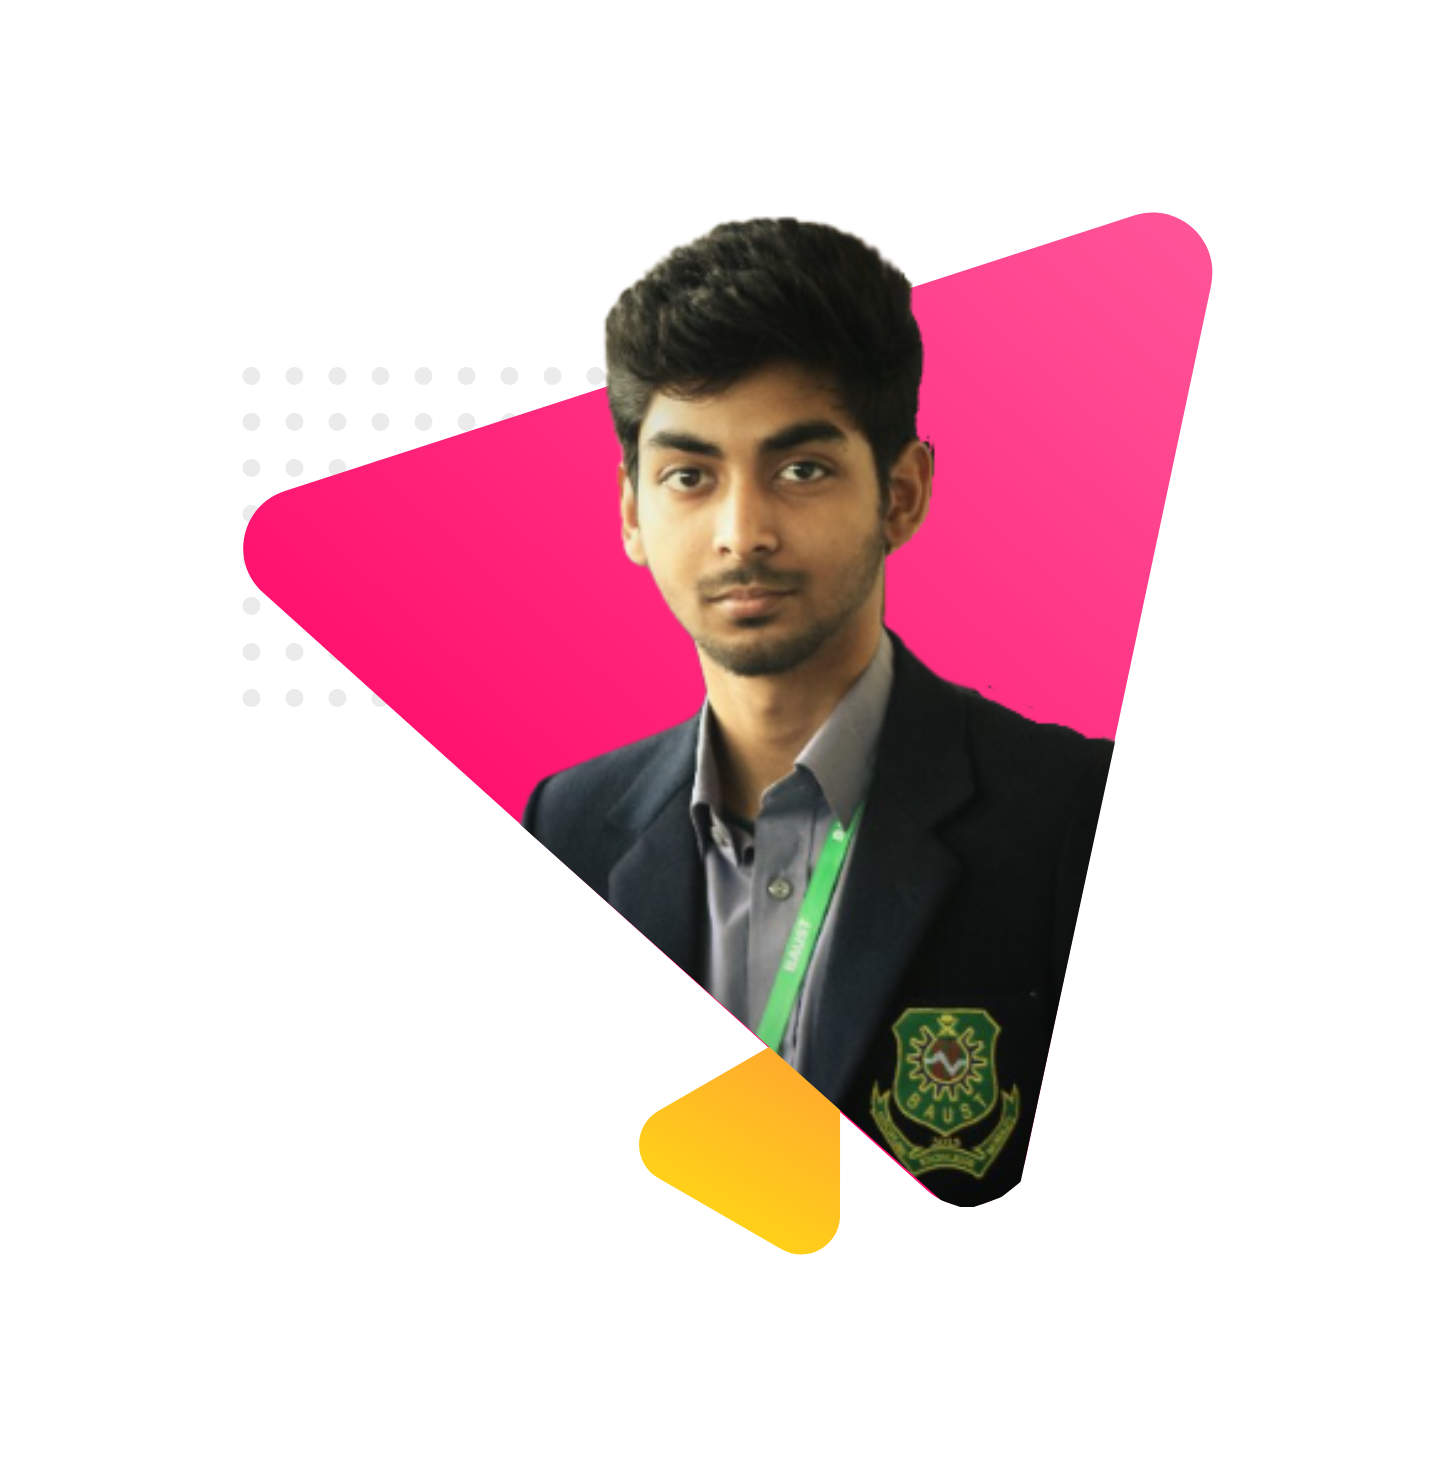
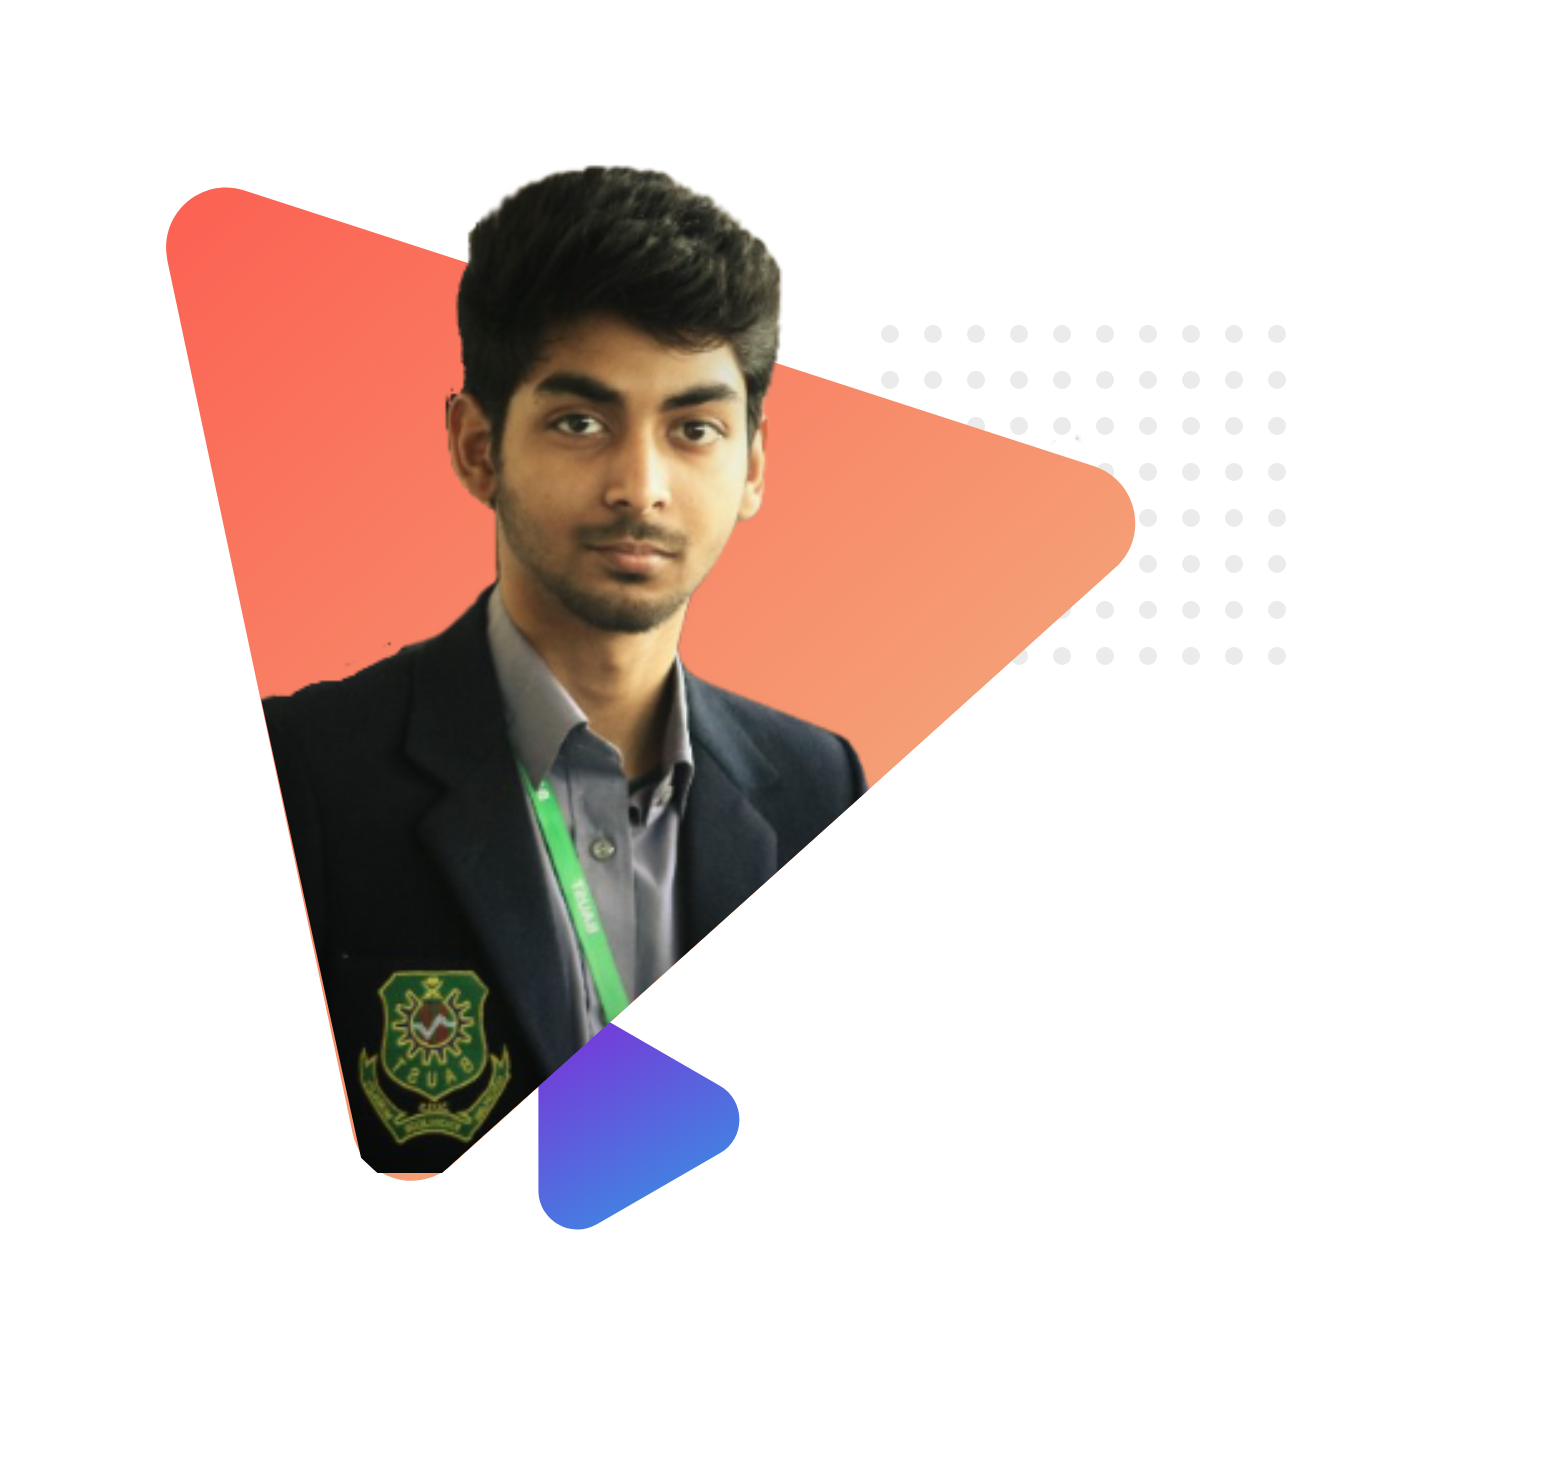
section1 complete

diff --git a/index.html b/index.html
@@ -5,8 +5,22 @@
     <meta http-equiv="X-UA-Compatible" content="IE=edge">
     <meta name="viewport" content="width=device-width, initial-scale=1.0">
     <title>Document</title>
+    <link rel="stylesheet" href="style.css">
+    <link rel="preconnect" href="https://fonts.googleapis.com">
+<link rel="preconnect" href="https://fonts.gstatic.com" crossorigin>
+<link href="https://fonts.googleapis.com/css2?family=Georama&display=swap" rel="stylesheet">
 </head>
 <body>
-    
+    <section class="first-section">
+        <div class="half-width">
+            <h2>Hello I'm</h2>
+            <h1><span class="rgb-highlight">Abir Hasan</span></h1>
+            <p>You might saw me jumping, climbing bulding, and stopping trains. But nobody pays me a dime for that work</p>
+            <a class="link-btn" target="_blank" href="https://www.linkedin.com/in/md-abir-hasan-tonmoy-5776051a6/">HIRE ME</a>
+        </div>
+        <div class="photo1-width">
+            <img src="images/pro 1.png" alt="pro 1">
+        </div>
+    </section>
 </body>
 </html>

diff --git a/style.css b/style.css
@@ -1,0 +1,52 @@
+body{
+    font-family: 'Georama', sans-serif;
+    margin: 0;
+}
+h1{
+    font-size: 50px;
+    font-weight: bold;
+}
+h2{
+    font-size: 40px;
+}
+.rgb-highlight{
+    color: rgb(236, 76, 122);
+}
+.half-width{
+    width: 32%;
+    float: left;
+    margin-top: 17%;
+    margin-left: 14%;
+    padding-left: 2%;
+    padding-right: 2%;
+}
+.photo1-width{
+    width: 45%;
+    float: left;
+    margin-top: 5%;
+}
+.photo1-width img{
+    width: 100%;
+}
+.half-width p{
+    text-align: justify;
+    margin-top: 60px;
+    margin-bottom: 50px;
+}
+.link-btn{
+    text-decoration: none;
+    color: white;
+    background-image: linear-gradient(#ec5196,#ed4b6f);
+    font-weight: bold;
+    padding: 10px 20px;
+    border-radius: 7px;
+}
+section{
+    height: 900px;  
+}
+
+.first-section{
+    background-image: url("images/header-bg.png");
+    background-repeat: no-repeat;
+    background-size: 100% 100%;
+}
